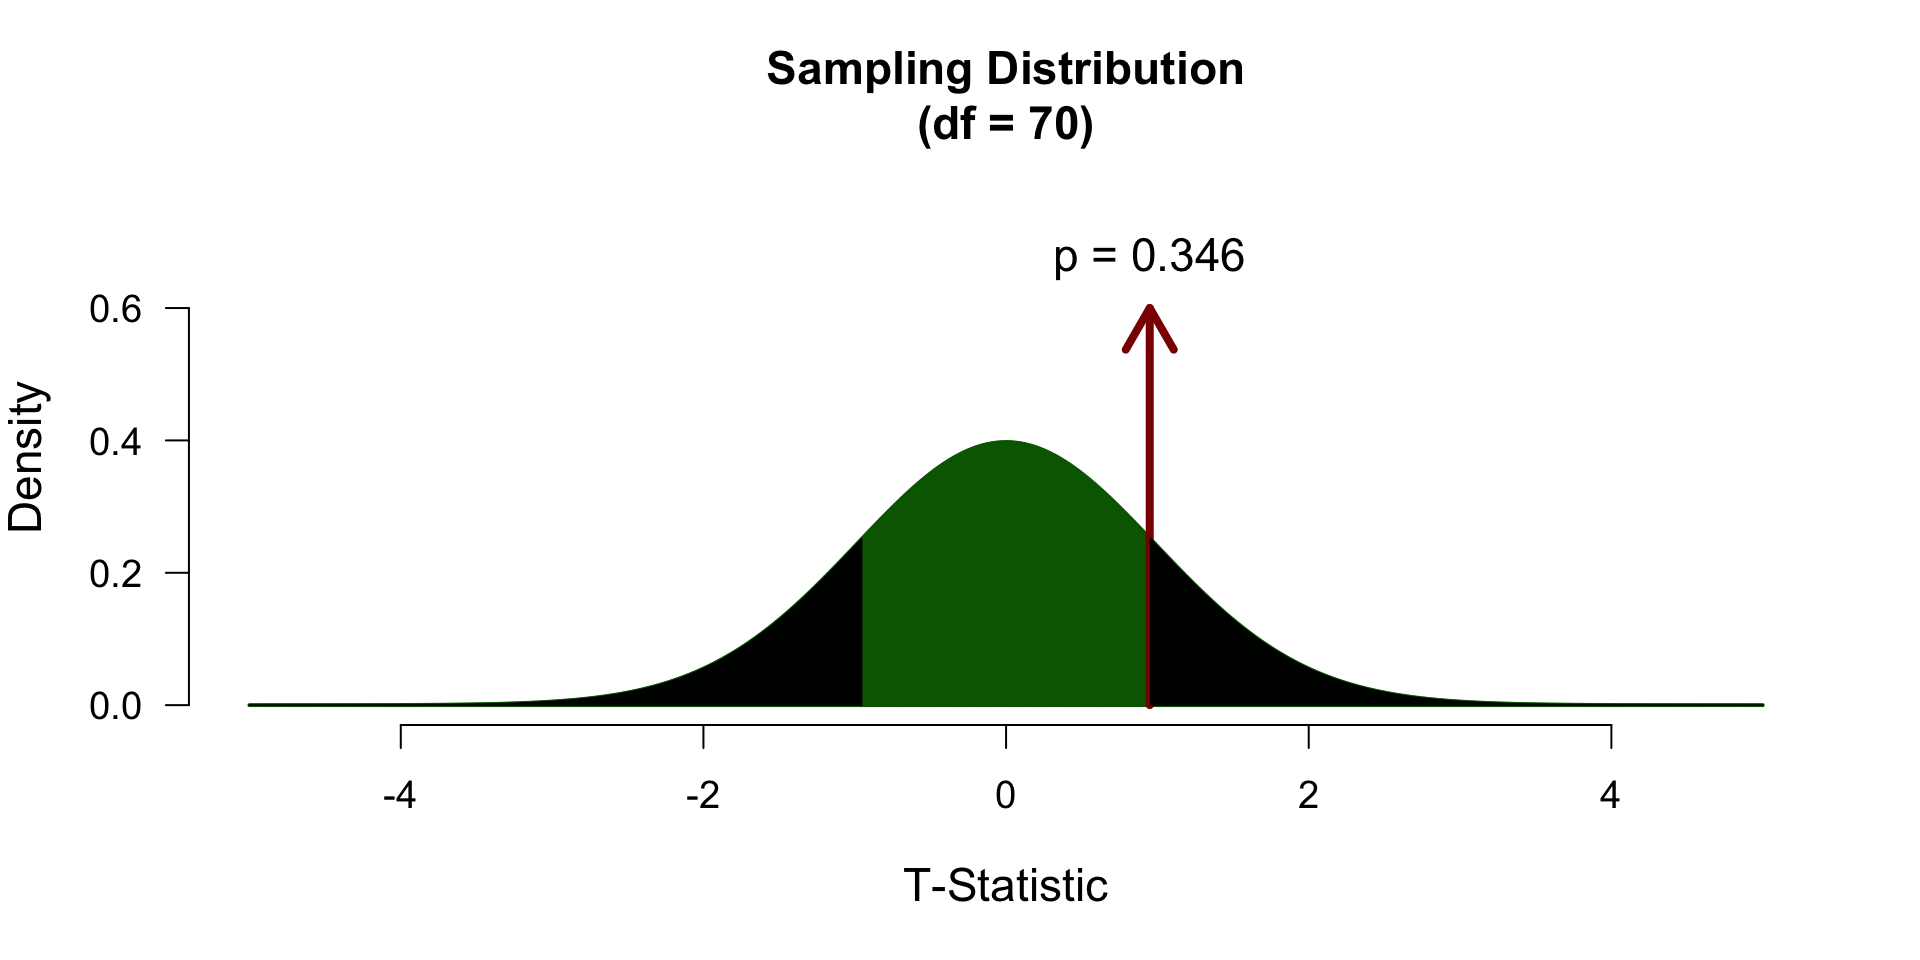
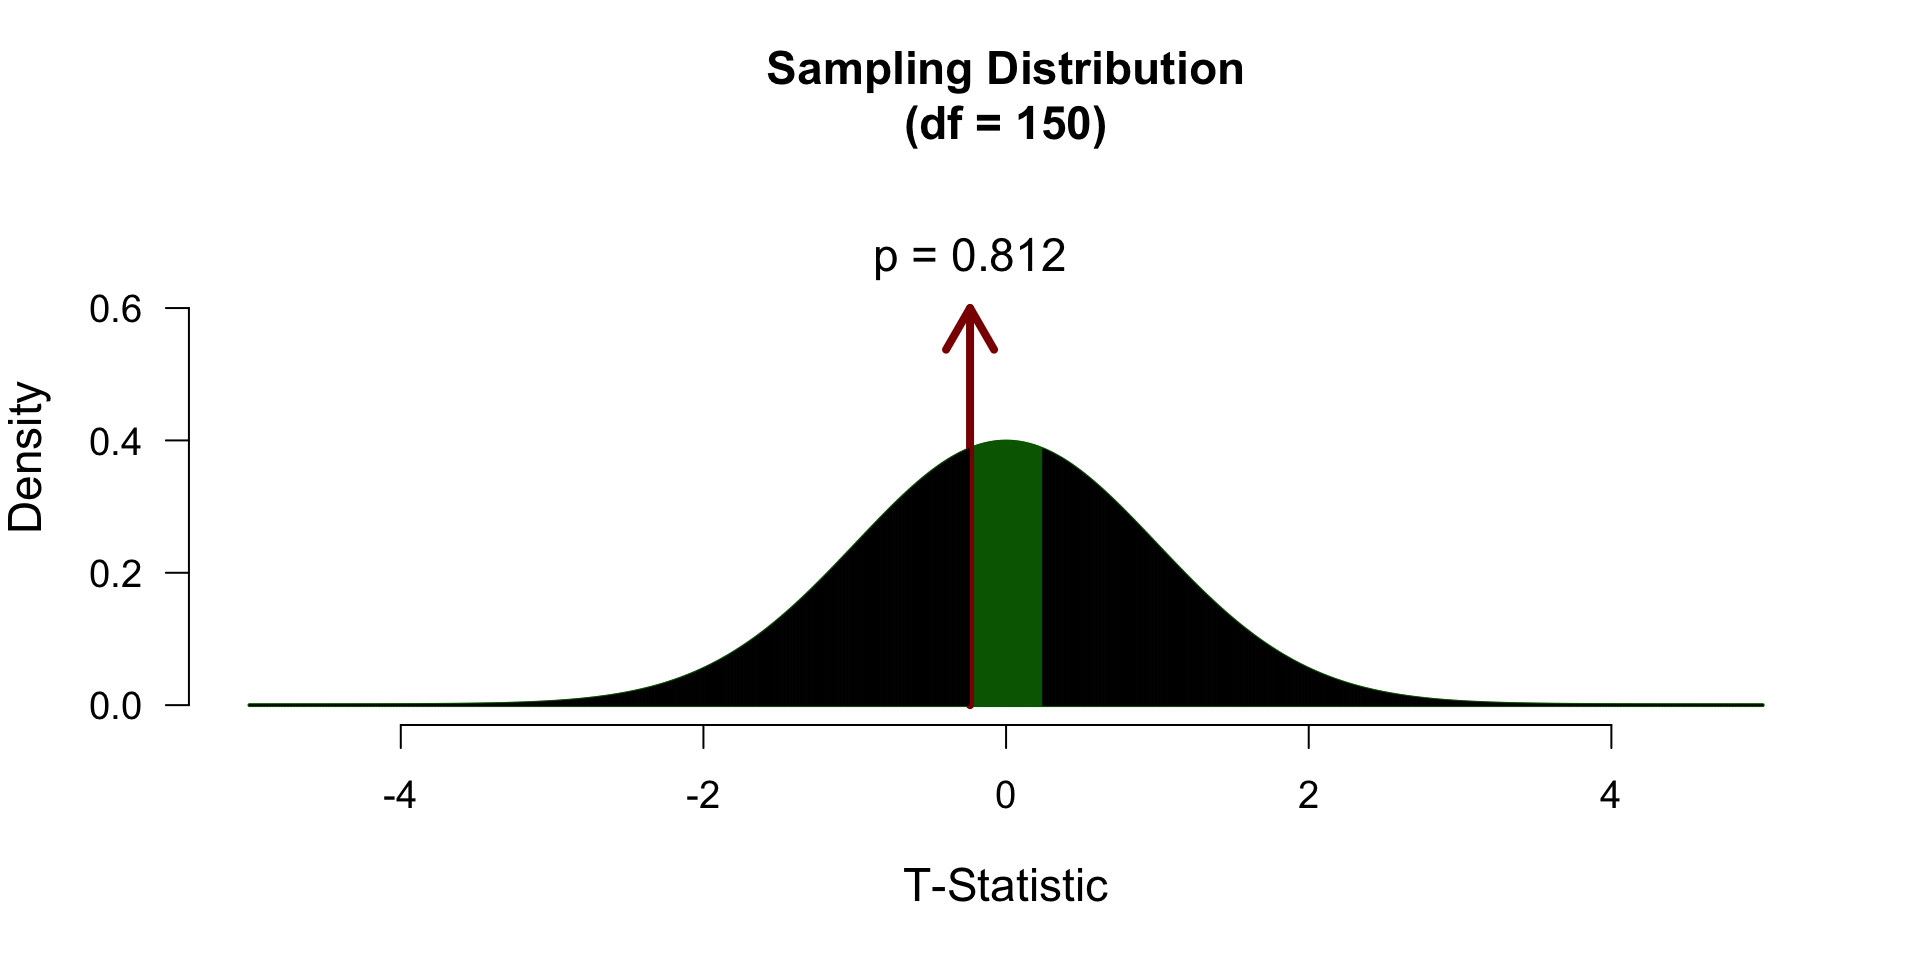
update slide lecture 11

Changed region(s): [[0.4375, 0.3125, 0.625, 0.75], [0.4688, 0.0938, 0.5938, 0.1562], [0.4375, 0.25, 0.6562, 0.2812]]

diff --git a/SSR/2025/11. t_test/11. t_test.slide.html b/SSR/2025/11. t_test/11. t_test.slide.html
@@ -633,8 +633,8 @@ Johnny van Doorn
 <div class="cell">
 <div class="cell-output-display">
 
-<div class="datatables html-widget html-fill-item" id="htmlwidget-84974fbfda798952516b" style="width:100%;height:auto;"></div>
-<script type="application/json" data-for="htmlwidget-84974fbfda798952516b">{"x":{"filter":"none","vertical":false,"data":[["1","2","3","4","5","6","7","8","9","10","11","12","13","14","15","16","17","18","19","20","21","22","23","24","25","26","27","28","29","30","31","32","33","34","35","36","37","38","39","40","41","42","43","44","45","46","47","48","49","50","51","52","53","54","55","56","57","58","59","60","61","62","63","64","65","66","67","68","69","70","71","72","73","74","75","76","77","78","79","80","81","82","83"],[120,108,122,115,130,100,110,110,116,100,115,100,115,122,115,112,120,180,125,110,110,128,115,110,130,125,120,120,72,100,101,120,110,110,110,100,110,100,130,128,120,110,110,100,120,120,105,105,110,130,200,120,115,130,130,180,120,98,105,200,115,130,135,115,120,120,110,131,200,110,140,125,126,115,110,120,120,100,103,125,136,128,112],[120,115,128,115,120,100,130,120,130,115,120,100,110,115,115,130,110,181,72,110,140,120,120,80,110,120,120,120,105,110,150,130,105,110,140,120,115,110,132,130,120,105,112,120,120,140,125,105,120,125,50,129,115,130,110,200,130,125,120,50,140,110,125,120,110,120,100,131,100,119,80,123,120,120,110,110,124,100,105,110,140,130,120]],"container":"<table class=\"display\">\n  <thead>\n    <tr>\n      <th> <\/th>\n      <th>ownIQ<\/th>\n      <th>nextIQ<\/th>\n    <\/tr>\n  <\/thead>\n<\/table>","options":{"searching":false,"scrollY":415,"paging":false,"info":false,"columnDefs":[{"className":"dt-right","targets":[1,2]},{"orderable":false,"targets":0},{"name":" ","targets":0},{"name":"ownIQ","targets":1},{"name":"nextIQ","targets":2}],"order":[],"autoWidth":false,"orderClasses":false}},"evals":[],"jsHooks":[]}</script>
+<div class="datatables html-widget html-fill-item" id="htmlwidget-ae2e8a19957c36f7092f" style="width:100%;height:auto;"></div>
+<script type="application/json" data-for="htmlwidget-ae2e8a19957c36f7092f">{"x":{"filter":"none","vertical":false,"data":[["1","2","3","4","5","6","7","8","9","10","11","12","13","14","15","16","17","18","19","20","21","22","23","24","25","26","27","28","29","30","31","32","33","34","35","36","37","38","39","40","41","42","43","44","45","46","47","48","49","50","51","52","53","54","55","56","57","58","59","60","61","62","63","64","65","66","67","68","69","70","71","72","73","74","75","76","77","78","79","80","81","82","83"],[120,108,122,115,130,100,110,110,116,100,115,100,115,122,115,112,120,180,125,110,110,128,115,110,130,125,120,120,72,100,101,120,110,110,110,100,110,100,130,128,120,110,110,100,120,120,105,105,110,130,200,120,115,130,130,180,120,98,105,200,115,130,135,115,120,120,110,131,200,110,140,125,126,115,110,120,120,100,103,125,136,128,112],[120,115,128,115,120,100,130,120,130,115,120,100,110,115,115,130,110,181,72,110,140,120,120,80,110,120,120,120,105,110,150,130,105,110,140,120,115,110,132,130,120,105,112,120,120,140,125,105,120,125,50,129,115,130,110,200,130,125,120,50,140,110,125,120,110,120,100,131,100,119,80,123,120,120,110,110,124,100,105,110,140,130,120]],"container":"<table class=\"display\">\n  <thead>\n    <tr>\n      <th> <\/th>\n      <th>ownIQ<\/th>\n      <th>nextIQ<\/th>\n    <\/tr>\n  <\/thead>\n<\/table>","options":{"searching":false,"scrollY":415,"paging":false,"info":false,"columnDefs":[{"className":"dt-right","targets":[1,2]},{"orderable":false,"targets":0},{"name":" ","targets":0},{"name":"ownIQ","targets":1},{"name":"nextIQ","targets":2}],"order":[],"autoWidth":false,"orderClasses":false}},"evals":[],"jsHooks":[]}</script>
 </div>
 </div>
 </section>
@@ -646,8 +646,8 @@ Johnny van Doorn
 <div class="cell">
 <div class="cell-output-display">
 
-<div class="datatables html-widget html-fill-item" id="htmlwidget-675e4ee6b5d79b495d33" style="width:100%;height:auto;"></div>
-<script type="application/json" data-for="htmlwidget-675e4ee6b5d79b495d33">{"x":{"filter":"none","vertical":false,"data":[["1","2","3","4","5","6","7","8","9","10","11","12","13","14","15","16","17","18","19","20","21","22","23","24","25","26","27","28","29","30","31","32","33","34","35","36","37","38","39","40","41","42","43","44","45","46","47","48","49","50","51","52","53","54","55","56","57","58","59","60","61","62","63","64","65","66","67","68","69","70","71","72","73","74","75","76","77","78","79","80","81","82","83"],[120,108,122,115,130,100,110,110,116,100,115,100,115,122,115,112,120,180,125,110,110,128,115,110,130,125,120,120,72,100,101,120,110,110,110,100,110,100,130,128,120,110,110,100,120,120,105,105,110,130,200,120,115,130,130,180,120,98,105,200,115,130,135,115,120,120,110,131,200,110,140,125,126,115,110,120,120,100,103,125,136,128,112],[120,115,128,115,120,100,130,120,130,115,120,100,110,115,115,130,110,181,72,110,140,120,120,80,110,120,120,120,105,110,150,130,105,110,140,120,115,110,132,130,120,105,112,120,120,140,125,105,120,125,50,129,115,130,110,200,130,125,120,50,140,110,125,120,110,120,100,131,100,119,80,123,120,120,110,110,124,100,105,110,140,130,120],[0,7,6,0,-10,0,20,10,14,15,5,0,-5,-7,0,18,-10,1,-53,0,30,-8,5,-30,-20,-5,0,0,33,10,49,10,-5,0,30,20,5,10,2,2,0,-5,2,20,0,20,20,0,10,-5,-150,9,0,0,-20,20,10,27,15,-150,25,-20,-10,5,-10,0,-10,0,-100,9,-60,-2,-6,5,0,-10,4,0,2,-15,4,2,8]],"container":"<table class=\"display\">\n  <thead>\n    <tr>\n      <th> <\/th>\n      <th>ownIQ<\/th>\n      <th>nextIQ<\/th>\n      <th>diffScores<\/th>\n    <\/tr>\n  <\/thead>\n<\/table>","options":{"searching":false,"scrollY":315,"paging":false,"info":false,"columnDefs":[{"className":"dt-right","targets":[1,2,3]},{"orderable":false,"targets":0},{"name":" ","targets":0},{"name":"ownIQ","targets":1},{"name":"nextIQ","targets":2},{"name":"diffScores","targets":3}],"order":[],"autoWidth":false,"orderClasses":false}},"evals":[],"jsHooks":[]}</script>
+<div class="datatables html-widget html-fill-item" id="htmlwidget-f24cc2ee8535b77b7df4" style="width:100%;height:auto;"></div>
+<script type="application/json" data-for="htmlwidget-f24cc2ee8535b77b7df4">{"x":{"filter":"none","vertical":false,"data":[["1","2","3","4","5","6","7","8","9","10","11","12","13","14","15","16","17","18","19","20","21","22","23","24","25","26","27","28","29","30","31","32","33","34","35","36","37","38","39","40","41","42","43","44","45","46","47","48","49","50","51","52","53","54","55","56","57","58","59","60","61","62","63","64","65","66","67","68","69","70","71","72","73","74","75","76","77","78","79","80","81","82","83"],[120,108,122,115,130,100,110,110,116,100,115,100,115,122,115,112,120,180,125,110,110,128,115,110,130,125,120,120,72,100,101,120,110,110,110,100,110,100,130,128,120,110,110,100,120,120,105,105,110,130,200,120,115,130,130,180,120,98,105,200,115,130,135,115,120,120,110,131,200,110,140,125,126,115,110,120,120,100,103,125,136,128,112],[120,115,128,115,120,100,130,120,130,115,120,100,110,115,115,130,110,181,72,110,140,120,120,80,110,120,120,120,105,110,150,130,105,110,140,120,115,110,132,130,120,105,112,120,120,140,125,105,120,125,50,129,115,130,110,200,130,125,120,50,140,110,125,120,110,120,100,131,100,119,80,123,120,120,110,110,124,100,105,110,140,130,120],[0,7,6,0,-10,0,20,10,14,15,5,0,-5,-7,0,18,-10,1,-53,0,30,-8,5,-30,-20,-5,0,0,33,10,49,10,-5,0,30,20,5,10,2,2,0,-5,2,20,0,20,20,0,10,-5,-150,9,0,0,-20,20,10,27,15,-150,25,-20,-10,5,-10,0,-10,0,-100,9,-60,-2,-6,5,0,-10,4,0,2,-15,4,2,8]],"container":"<table class=\"display\">\n  <thead>\n    <tr>\n      <th> <\/th>\n      <th>ownIQ<\/th>\n      <th>nextIQ<\/th>\n      <th>diffScores<\/th>\n    <\/tr>\n  <\/thead>\n<\/table>","options":{"searching":false,"scrollY":315,"paging":false,"info":false,"columnDefs":[{"className":"dt-right","targets":[1,2,3]},{"orderable":false,"targets":0},{"name":" ","targets":0},{"name":"ownIQ","targets":1},{"name":"nextIQ","targets":2},{"name":"diffScores","targets":3}],"order":[],"autoWidth":false,"orderClasses":false}},"evals":[],"jsHooks":[]}</script>
 </div>
 </div>
 </section>
@@ -783,8 +783,8 @@ H_A &amp;: t &lt; 0 \\
 <div class="cell">
 <div class="cell-output-display">
 
-<div class="datatables html-widget html-fill-item" id="htmlwidget-8c19b050aec4abfb5209" style="width:100%;height:auto;"></div>
-<script type="application/json" data-for="htmlwidget-8c19b050aec4abfb5209">{"x":{"filter":"none","vertical":false,"data":[["1","2","3","4","5","6","7","8","9","10","11","12","13","14","15","16","17","18","19","20","21","22","23","24","25","26","27","28","29","30","31","32","33","34","35","36","37","38","39","40","41","42","43","44","45","46","47","48","49","50","51","52","53","54","55","56","57","58","59","60","61","62","63","64","65","66","67","68","69","70","71","72"],["2024","2024","2024","2024","2024","2024","2024","2024","2024","2024","2024","2024","2024","2024","2024","2024","2024","2024","2024","2024","2024","2024","2024","2024","2024","2024","2024","2024","2024","2024","2024","2024","2024","2024","2024","2024","2024","2024","2024","2024","2024","2024","2024","2024","2024","2024","2024","2024","2024","2024","2024","2024","2024","2024","2024","2024","2024","2024","2024","2024","2024","2024","2024","2024","2024","2024","2024","2024","2024","2025","2025","2025"],[110,120,110,108,115,162,110,108,108,130,110,103,120,130,104,119,108,108,135,145,110,130,130,120,125,120,115,125,105,117,120,142,130,115,152,100,115,100,110,100,100,143,108,130,120,113,131,122,120,105,113,137,100,110,105,141,120,130,145,120,120,118,105,120,90,125,125,110,80,100,120,110]],"container":"<table class=\"display\">\n  <thead>\n    <tr>\n      <th> <\/th>\n      <th>year<\/th>\n      <th>IQ<\/th>\n    <\/tr>\n  <\/thead>\n<\/table>","options":{"searching":false,"scrollY":415,"paging":false,"info":false,"columnDefs":[{"className":"dt-right","targets":2},{"orderable":false,"targets":0},{"name":" ","targets":0},{"name":"year","targets":1},{"name":"IQ","targets":2}],"order":[],"autoWidth":false,"orderClasses":false}},"evals":[],"jsHooks":[]}</script>
+<div class="datatables html-widget html-fill-item" id="htmlwidget-4861a8c9a53d60deb1e2" style="width:100%;height:auto;"></div>
+<script type="application/json" data-for="htmlwidget-4861a8c9a53d60deb1e2">{"x":{"filter":"none","vertical":false,"data":[["1","2","3","4","5","6","7","8","9","10","11","12","13","14","15","16","17","18","19","20","21","22","23","24","25","26","27","28","29","30","31","32","33","34","35","36","37","38","39","40","41","42","43","44","45","46","47","48","49","50","51","52","53","54","55","56","57","58","59","60","61","62","63","64","65","66","67","68","69","70","71","72","73","74","75","76","77","78","79","80","81","82","83","84","85","86","87","88","89","90","91","92","93","94","95","96","97","98","99","100","101","102","103","104","105","106","107","108","109","110","111","112","113","114","115","116","117","118","119","120","121","122","123","124","125","126","127","128","129","130","131","132","133","134","135","136","137","138","139","140","141","142","143","144","145","146","147","148","149","150","151","152"],["2024","2024","2024","2024","2024","2024","2024","2024","2024","2024","2024","2024","2024","2024","2024","2024","2024","2024","2024","2024","2024","2024","2024","2024","2024","2024","2024","2024","2024","2024","2024","2024","2024","2024","2024","2024","2024","2024","2024","2024","2024","2024","2024","2024","2024","2024","2024","2024","2024","2024","2024","2024","2024","2024","2024","2024","2024","2024","2024","2024","2024","2024","2024","2024","2024","2024","2024","2024","2024","2025","2025","2025","2025","2025","2025","2025","2025","2025","2025","2025","2025","2025","2025","2025","2025","2025","2025","2025","2025","2025","2025","2025","2025","2025","2025","2025","2025","2025","2025","2025","2025","2025","2025","2025","2025","2025","2025","2025","2025","2025","2025","2025","2025","2025","2025","2025","2025","2025","2025","2025","2025","2025","2025","2025","2025","2025","2025","2025","2025","2025","2025","2025","2025","2025","2025","2025","2025","2025","2025","2025","2025","2025","2025","2025","2025","2025","2025","2025","2025","2025","2025","2025"],[115,120,110,108,115,140,110,90,109,140,120,108,110,140,109,119,98,125,125,135,100,120,115,109,125,120,128,125,115,83,125,125,130,105,130,85,110,109,103,70,100,135,106,108,120,120,125,122,180,100,113,115,130,115,125,135,130,130,140,120,125,115,118,130,110,105,125,95,95,120,115,128,115,120,100,130,120,130,115,120,100,110,115,115,130,110,181,72,110,140,120,120,80,110,120,120,120,105,110,150,130,105,110,140,120,115,110,132,130,120,105,112,120,120,140,125,105,120,125,50,129,115,130,110,200,130,125,120,50,140,110,125,120,110,120,100,131,100,119,80,123,120,120,110,110,124,100,105,110,140,130,120]],"container":"<table class=\"display\">\n  <thead>\n    <tr>\n      <th> <\/th>\n      <th>year<\/th>\n      <th>IQ<\/th>\n    <\/tr>\n  <\/thead>\n<\/table>","options":{"searching":false,"scrollY":415,"paging":false,"info":false,"columnDefs":[{"className":"dt-right","targets":2},{"orderable":false,"targets":0},{"name":" ","targets":0},{"name":"year","targets":1},{"name":"IQ","targets":2}],"order":[],"autoWidth":false,"orderClasses":false}},"evals":[],"jsHooks":[]}</script>
 </div>
 </div>
 </section>
@@ -797,8 +797,8 @@ H_A &amp;: t &lt; 0 \\
 <span id="cb16-4"><a href="#cb16-4"></a><span class="fu">rbind</span>(iq2024.mean, iq2025.mean)</span></code><button title="Copy to Clipboard" class="code-copy-button"><i class="bi"></i></button></pre></div>
 <div class="cell-output cell-output-stdout">
 <pre><code>                [,1]
-iq2024.mean 118.1159
-iq2025.mean 110.0000</code></pre>
+iq2024.mean 116.8841
+iq2025.mean 117.6024</code></pre>
 </div>
 </div>
 </section>
@@ -810,8 +810,8 @@ iq2025.mean 110.0000</code></pre>
 <span id="cb18-3"><a href="#cb18-3"></a><span class="fu">print</span>(<span class="fu">rbind</span>(iq2024.var, iq2025.var))</span></code><button title="Copy to Clipboard" class="code-copy-button"><i class="bi"></i></button></pre></div>
 <div class="cell-output cell-output-stdout">
 <pre><code>               [,1]
-iq2024.var 213.3393
-iq2025.var 100.0000</code></pre>
+iq2024.var 259.2805
+iq2025.var 412.7790</code></pre>
 </div>
 <div class="sourceCode cell-code" id="cb20"><pre class="sourceCode numberSource r number-lines code-with-copy"><code class="sourceCode r"><span id="cb20-1"><a href="#cb20-1"></a>iq2024.n   <span class="ot">&lt;-</span> <span class="fu">length</span>(iq2024)</span>
 <span id="cb20-2"><a href="#cb20-2"></a>iq2025.n <span class="ot">&lt;-</span> <span class="fu">length</span>(iq2025)</span>
@@ -820,7 +820,7 @@ iq2025.var 100.0000</code></pre>
 <div class="cell-output cell-output-stdout">
 <pre><code>         [,1]
 iq2024.n   69
-iq2025.n    3</code></pre>
+iq2025.n   83</code></pre>
 </div>
 </div>
 </section>
@@ -842,11 +842,11 @@ iq2025.n    3</code></pre>
 <span id="cb22-3"><a href="#cb22-3"></a></span>
 <span id="cb22-4"><a href="#cb22-4"></a>df</span></code><button title="Copy to Clipboard" class="code-copy-button"><i class="bi"></i></button></pre></div>
 <div class="cell-output cell-output-stdout">
-<pre><code>[1] 70</code></pre>
+<pre><code>[1] 150</code></pre>
 </div>
 <div class="sourceCode cell-code" id="cb24"><pre class="sourceCode numberSource r number-lines code-with-copy"><code class="sourceCode r"><span id="cb24-1"><a href="#cb24-1"></a>pooledVar</span></code><button title="Copy to Clipboard" class="code-copy-button"><i class="bi"></i></button></pre></div>
 <div class="cell-output cell-output-stdout">
-<pre><code>[1] 210.101</code></pre>
+<pre><code>[1] 343.193</code></pre>
 </div>
 </div>
 </section>
@@ -857,7 +857,7 @@ iq2025.n    3</code></pre>
 <div class="sourceCode cell-code" id="cb26"><pre class="sourceCode numberSource r number-lines code-with-copy"><code class="sourceCode r"><span id="cb26-1"><a href="#cb26-1"></a>sePooled <span class="ot">&lt;-</span> <span class="fu">sqrt</span>( ((pooledVar<span class="sc">/</span>iq2024.n) <span class="sc">+</span> (pooledVar<span class="sc">/</span>iq2025.n)) )</span>
 <span id="cb26-2"><a href="#cb26-2"></a>sePooled</span></code><button title="Copy to Clipboard" class="code-copy-button"><i class="bi"></i></button></pre></div>
 <div class="cell-output cell-output-stdout">
-<pre><code>[1] 8.548603</code></pre>
+<pre><code>[1] 3.018057</code></pre>
 </div>
 </div>
 </section>
@@ -869,7 +869,7 @@ iq2025.n    3</code></pre>
 <span id="cb28-2"><a href="#cb28-2"></a></span>
 <span id="cb28-3"><a href="#cb28-3"></a>tStat</span></code><button title="Copy to Clipboard" class="code-copy-button"><i class="bi"></i></button></pre></div>
 <div class="cell-output cell-output-stdout">
-<pre><code>[1] 0.9493881</code></pre>
+<pre><code>[1] -0.2380179</code></pre>
 </div>
 </div>
 </section>
@@ -886,7 +886,7 @@ iq2025.n    3</code></pre>
 <span id="cb30-2"><a href="#cb30-2"></a></span>
 <span id="cb30-3"><a href="#cb30-3"></a>d</span></code><button title="Copy to Clipboard" class="code-copy-button"><i class="bi"></i></button></pre></div>
 <div class="cell-output cell-output-stdout">
-<pre><code>[1] 0.2237729</code></pre>
+<pre><code>[1] -0.03861161</code></pre>
 </div>
 </div>
 </section>
@@ -896,14 +896,14 @@ iq2025.n    3</code></pre>
 <div class="cell">
 <div class="cell-output cell-output-stdout">
 <pre><code>Levene's Test for Homogeneity of Variance (center = median)
-      Df F value Pr(&gt;F)
-group  1  0.7218 0.3984
-      70               </code></pre>
+       Df F value Pr(&gt;F)
+group   1  0.0628 0.8024
+      150               </code></pre>
 </div>
 </div>
 <p>But more nuance lies in comparing observed sd’s or variances: ::: {.cell} ::: {.cell-output .cell-output-stdout}</p>
 <pre><code>    2024     2025 
-14.60614 10.00000 </code></pre>
+16.10219 20.31696 </code></pre>
 <p>::: :::</p>
 </section>
 <section class="slide level2">
